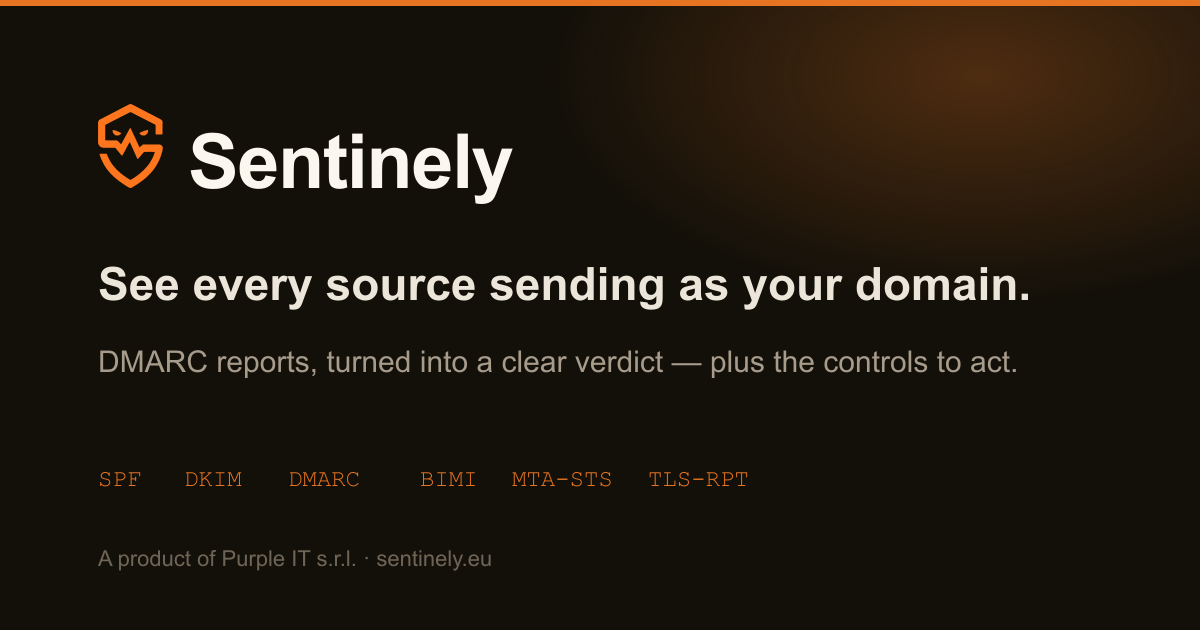
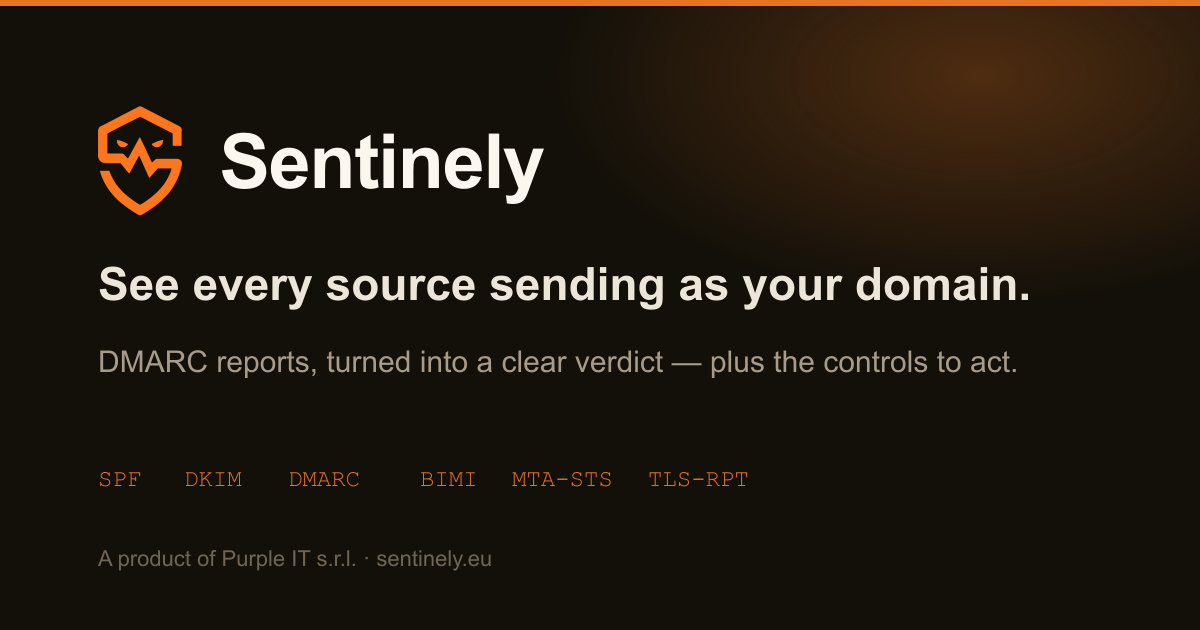
brand: set the shield at twice the wordmark's cap height
The mark was sized at the cap height of "Sentinely" (0.725em for this
stack) and set on the baseline. It now stands at 1.45em — twice that —
with the width still derived from the variant's ratio, so the drawing is
not distorted.

At that size the mark is taller than the line of text, and left on the
baseline it would hang entirely above the word: the lockup is centred on
the wordmark instead, plus a 0.03em nudge that moves it from the middle of
the line box onto the middle of the cap band. The gap grows from 0.42rem
to 0.55rem to carry the bigger sign; the halo is already sized off
--brandmark-size and rescales itself. The bar keeps its 4rem — a 26px mark
clears it, so nothing in the nav moves.

Two knock-on fixes the wider lockup made necessary:

  · .brand no longer shrinks. Around 1100px the Italian nav leaves the row
    with nothing to spare, and a shrinkable .brand gave up its own width
    first — the box narrowed and "Sentinely", one unbreakable word, spilled
    out of it and ran under the first nav link.
  · Between 1024px and 1200px the lockup sets a step smaller. The row was
    already over capacity there — "Come funziona" wrapped onto two lines
    before this change — and the extra width added a horizontal scrollbar.
    The mark is sized in em, so it stays exactly twice the cap height.

The OG card is the same lockup and takes the same proportion, so og.png is
regenerated; the icons come out byte-identical.

Changed region(s): [[0.0617, 0.1508, 0.4625, 0.3619]]

diff --git a/README.md b/README.md
@@ -108,8 +108,9 @@ variables via `@theme inline`, so `bg-surface`, `text-ink`, etc. follow the them
 ### Brand mark
 
 The shield beside the wordmark is `src/components/Brandmark.astro`: an inline SVG
-painted with `currentColor`, sized in `em` at the cap height of the wordmark
-(`0.725em`) and aligned on the baseline, so it stands exactly as tall as the S.
+painted with `currentColor`, sized in `em` at twice the cap height of the wordmark
+(`1.45em`, cap height being `0.725em` for this stack) and centred on it — taller
+than the line of text, so baseline alignment would leave it hanging above the word.
 Behind it a radial halo pulses on the same 2.6s / `cubic-bezier(.16,1,.3,1)` as
 the older `.beacon` dot, and stops under `prefers-reduced-motion`.
 
